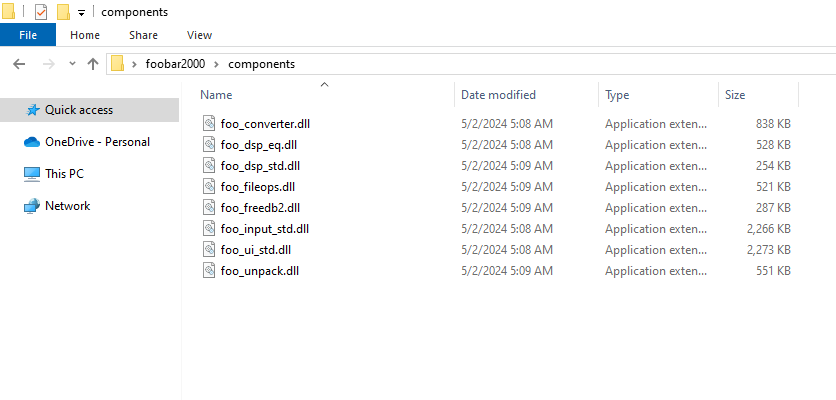
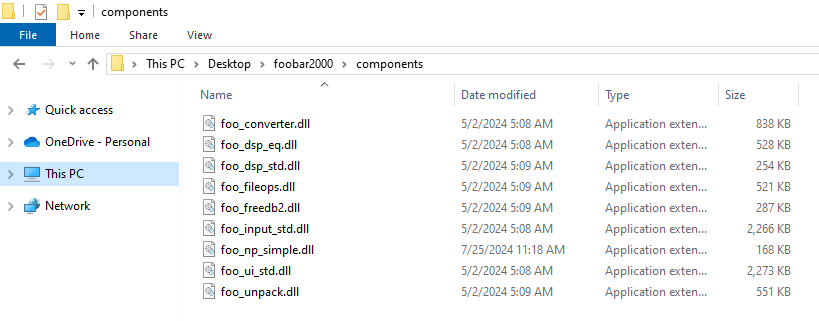
Update Components Section

diff --git a/home.html b/home.html
@@ -49,9 +49,8 @@
                 <p>WARNING: This is a raw .dll file, meaning windows will flag this, at the moment this component has been archived, when a new version is posted this will be updated.</p>
                 <p>Navigate to your Foobar2000 installation folder</p>
                 <img src="./assets/component/foobar_folder.png">
-                <p>Navigate to the components folder</p>
+                <p>Navigate to the components folder, and move the "foo_np_simple.dll" to this folder</p>
                 <img src="./assets/component/components_folder.png">
-                <p>Move the foo_np_simple.dll to the components folder</p>
             </div>
         </section>
     </main>
